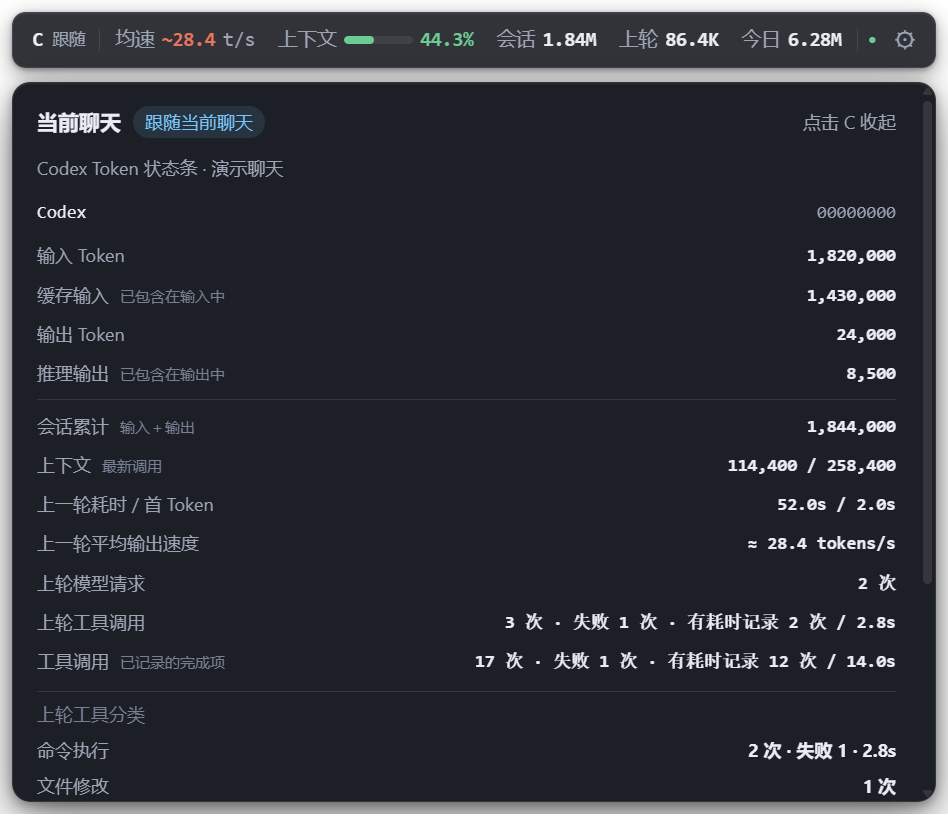
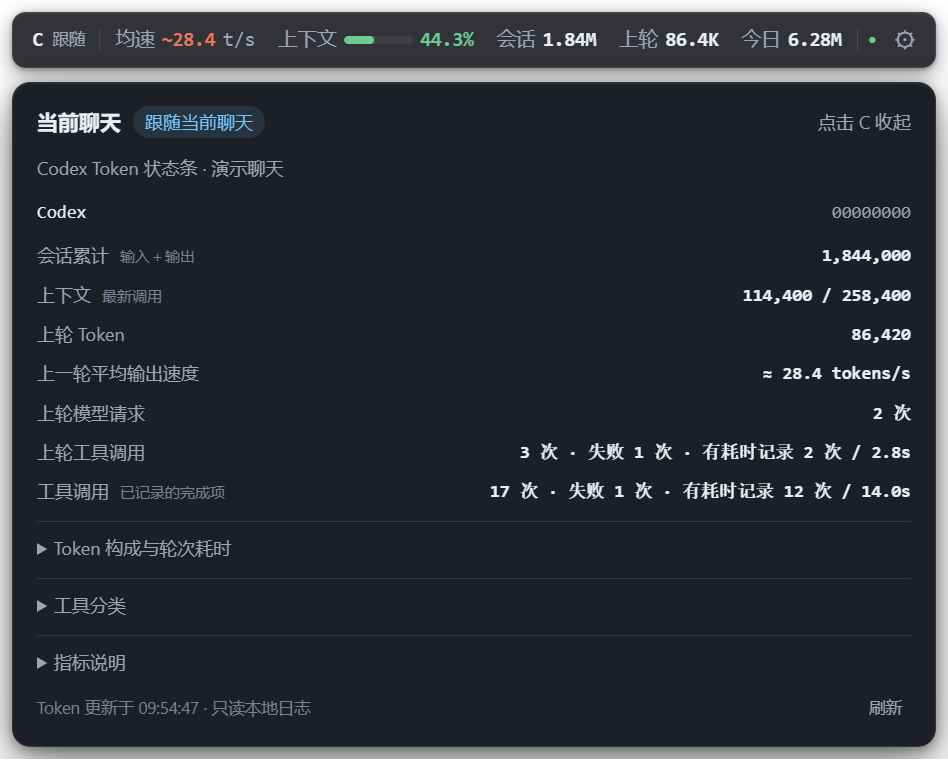
Simplify status details and add settings save recovery

diff --git a/src/ui/settings.html b/src/ui/settings.html
@@ -11,12 +11,15 @@
   <main class="settings-content">
     <h1>Codex Token 状态条</h1>
     <p class="intro">跟随当前聊天，查看 Token 和上下文。鼠标进入浮条时自动半透明，点击 C 展开或收起明细。</p>
+    <header class="settings-navigation">
     <nav class="settings-tabs" role="tablist" aria-label="设置分类">
       <button id="tab-display" role="tab" aria-controls="pane-display" aria-selected="true" data-tab="display">显示</button>
       <button id="tab-chat" role="tab" aria-controls="pane-chat" aria-selected="false" tabindex="-1" data-tab="chat">聊天</button>
       <button id="tab-tools" role="tab" aria-controls="pane-tools" aria-selected="false" tabindex="-1" data-tab="tools">工具</button>
       <button id="tab-diagnostics" role="tab" aria-controls="pane-diagnostics" aria-selected="false" tabindex="-1" data-tab="diagnostics">诊断</button>
     </nav>
+    <div class="save-feedback" id="save-feedback" data-state="idle" role="status" aria-live="polite" aria-atomic="true"><span id="save-status">更改会自动保存</span><button type="button" class="action-button" id="retry-save" hidden>重试保存</button></div>
+    </header>
     <div id="pane-display" role="tabpanel" aria-labelledby="tab-display" data-pane="display">
     <section class="settings-group">
       <h2>浮条显示项</h2>
@@ -34,19 +37,24 @@
       <p class="settings-note">隐藏指标名称和跟随状态，保留数值、进度条及 C、设置按钮；明细仍显示完整文字。</p>
     </section>
     <section class="settings-group">
-      <h2>位置与外观</h2>
-      <div class="setting-row"><label for="placement">跟随窗口的位置</label><select id="placement" data-setting="placement"><option value="top-right">右上方</option><option value="bottom-right">右下方</option><option value="bottom-center">底部居中</option></select></div>
+      <h2>外观</h2>
       <div class="setting-row"><label for="theme">主题</label><select id="theme" data-setting="theme"><option value="system">跟随 Windows</option><option value="dark">深色</option><option value="light">浅色</option></select></div>
       <div class="setting-row"><label for="scale">缩放</label><select id="scale" data-setting="scale"><option value="0.75">75%</option><option value="0.85">85%</option><option value="1">100%</option><option value="1.15">115%</option><option value="1.3">130%</option><option value="1.5">150%</option></select></div>
       <div class="setting-row"><label for="opacity">浮条不透明度</label><div class="opacity-control"><input id="opacity" type="range" min="20" max="100" step="5" value="100" data-setting="opacity" aria-describedby="opacity-note" aria-valuetext="100%"><output id="opacity-value" for="opacity">100%</output></div></div>
       <p class="settings-note" id="opacity-note">数值越低越透明，拖动预览、松开保存。仅影响浮条，明细与设置保持清晰；鼠标进入时继续半透明避让。</p>
+    </section>
+    <section class="settings-group">
+      <h2>位置与拖动</h2>
+      <div class="setting-row"><label for="placement">跟随窗口的位置</label><select id="placement" data-setting="placement"><option value="top-right">右上方</option><option value="bottom-right">右下方</option><option value="bottom-center">底部居中</option></select></div>
       <label class="drag-option"><input type="checkbox" data-setting="allowDrag">允许自由拖动浮条</label>
-      <p class="settings-note">开启后拖动浮条的指标或空白处，松开鼠标自动保存位置。C 和设置按钮仍可点击。</p>
+      <p class="settings-note">拖动指标或空白处移动，松开保存；C 和设置按钮仍可点击。</p>
       <label><input type="checkbox" data-setting="rememberDisplayPositions">按显示器记住浮条位置</label>
-      <p class="settings-note">分别保存 Codex 所在显示器的位置，也支持拖到另一显示器。拔掉显示器后回到可用屏幕；“恢复浮条位置”会清除所有位置记忆。</p>
+      <label class="drag-option"><input type="checkbox" data-setting="alwaysVisible">切换到其他应用时仍显示</label>
+      <details class="advanced-settings" id="advanced-position"><summary>高级位置设置</summary>
       <div class="setting-row"><label for="offsetX">水平偏移</label><input id="offsetX" type="number" min="-20000" max="20000" step="10" data-setting="offsetX"></div>
       <div class="setting-row"><label for="offsetY">垂直偏移</label><input id="offsetY" type="number" min="-20000" max="20000" step="10" data-setting="offsetY"></div>
-      <label><input type="checkbox" data-setting="alwaysVisible">切换到其他应用时仍显示</label>
+      <p class="settings-note">位置按 Codex 所在显示器分别保存，支持跨屏拖动。拔掉目标显示器后回到可用屏幕；“恢复浮条位置”清除所有位置记忆。</p>
+      </details>
     </section>
     <details class="settings-group"><summary>统计口径说明</summary><p class="settings-note">上一轮输出 Token ÷（轮次耗时－首 Token 延迟）。缺少首 Token 时间时按完整耗时计算。包含推理输出、工具执行和多次模型调用，因此显示的是轮次平均速度。</p><p class="settings-note">缓存输入和推理输出不会重复计入总量。Token 用量不等同于套餐额度或账单。</p></details>
     </div>
@@ -65,20 +73,18 @@
     <section class="settings-group" aria-labelledby="tool-details-heading">
       <h2 id="tool-details-heading">工具调用明细</h2>
       <p class="settings-note tool-chat" id="tool-chat">等待聊天数据</p>
-      <details id="tool-details">
-        <summary id="tool-details-summary">查看分类与调用记录</summary>
+      <div id="tool-details">
         <div class="tool-controls">
           <label for="tool-scope">统计范围</label>
           <select id="tool-scope"><option value="session">会话累计</option><option value="turn" id="tool-turn-option">上一轮</option></select>
         </div>
         <p class="settings-note" id="tool-stats"></p>
-        <div class="tool-table-wrap">
+        <details class="advanced-settings" id="tool-classification"><summary>按类别查看汇总</summary><div class="tool-table-wrap">
           <table class="tool-table" aria-label="工具调用分类统计">
             <thead><tr><th scope="col">分类</th><th scope="col">次数</th><th scope="col">失败</th><th scope="col">计时</th><th scope="col">耗时</th></tr></thead>
             <tbody id="settings-tool-groups"></tbody>
           </table>
-        </div>
-        <p class="settings-note">计时表示有耗时记录的次数；耗时只合计日志提供的值。</p>
+        </div><p class="settings-note">计时表示有耗时记录的次数；耗时只合计日志提供的值。汇总包含全部调用，不受记录筛选影响。</p></details>
         <div class="tool-filters"><label>类别<select id="tool-category"><option value="all">全部类别</option><option value="CommandExecution">命令执行</option><option value="FileChange">文件修改</option><option value="Extension">扩展操作</option><option value="ImageView">图像查看</option></select></label><label>排序<select id="tool-sort"><option value="newest">最近完成</option><option value="duration">耗时从长到短</option></select></label></div>
         <label class="search-label" for="tool-search">搜索工具</label><input type="search" class="full-select" id="tool-search" placeholder="工具名称或类别" autocomplete="off">
         <h3 class="running-heading" id="running-heading" hidden>执行中</h3><ol class="tool-records" id="settings-running-tools" aria-label="执行中的工具调用"></ol>
@@ -87,7 +93,7 @@
         <ol class="tool-records" id="settings-tool-records" aria-label="最近已完成的工具调用"></ol>
         <p class="settings-note" id="tool-empty"></p>
         <div class="pager"><button class="action-button" id="tool-prev" aria-label="上一页调用记录">上一页</button><span id="tool-page" aria-live="polite"></span><button class="action-button" id="tool-next" aria-label="下一页调用记录">下一页</button></div>
-      </details>
+      </div>
     </section>
     </div>
     <div id="pane-diagnostics" role="tabpanel" aria-labelledby="tab-diagnostics" data-pane="diagnostics" hidden>
@@ -116,7 +122,6 @@
       <p class="settings-note">复制内容不包含聊天标题、ID、用户路径或调用正文。仅主动检查更新时访问 GitHub。</p>
     </section>
     </div>
-    <p id="save-status" aria-live="polite"></p>
     <div class="actions"><button class="action-button" id="refresh">重新检测与刷新</button><button class="action-button" id="restore-position">恢复浮条位置</button><button class="action-button" id="reset">恢复默认显示</button><button class="action-button" id="quit">退出状态条</button></div>
     <p class="settings-note" id="reset-message" aria-live="polite"></p><button class="action-button" id="undo-reset" hidden>撤销恢复默认显示</button>
   </main>

diff --git a/src/ui/styles.css b/src/ui/styles.css
@@ -56,12 +56,19 @@ button:focus-visible { outline: 2px solid var(--color-brand); outline-offset: 2p
 .activity.busy { color: #57c7ff; animation: zupulse 1.6s ease-in-out infinite; }
 .activity.done { color: #3ecf8e; }
 .details.panel { position: relative; width: 100%; min-width: 0; max-width: none; max-height: 480px; padding: 15px 16px; font-size: 12px; font-family: 'Segoe UI', 'Microsoft YaHei UI', sans-serif; backdrop-filter: none; left: auto; bottom: auto; gap: 10px; }
+.detail-extra { border-top: 1px solid var(--color-border); padding-top: 8px; }
+.detail-extra summary, .advanced-settings summary { cursor: pointer; color: var(--color-foreground-subtle); }
+.detail-extra summary:focus-visible, .advanced-settings summary:focus-visible { outline: 2px solid var(--color-brand); outline-offset: 3px; }
+.detail-extra[open] > summary { margin-bottom: 10px; }
+.detail-extra .tool-breakdown + .tool-breakdown { margin-top: 10px; }
 .detail-heading, .detail-heading > div { display: flex; align-items: center; gap: 8px; }
 .detail-heading { justify-content: space-between; }
 .detail-heading strong { font-size: 14px; }
 .chat-title { margin: 0; color: var(--color-foreground-subtle); line-height: 1.6; overflow-wrap: anywhere; }
 .chat-title[hidden] { display: none; }
 .model-line { display: flex; justify-content: space-between; gap: 12px; font-family: Consolas, monospace; font-size: 12px; }
+.model-line > span { min-width: 0; overflow-wrap: anywhere; }
+.model-line > span:last-child { flex-shrink: 0; }
 .numbers { display: grid; gap: 7px; }
 .numbers > div { display: grid; grid-template-columns: minmax(110px, 1fr) minmax(0, 2fr); gap: 12px; align-items: start; }
 .numbers > div > span { color: var(--color-foreground-subtle); min-width: 0; }
@@ -86,10 +93,19 @@ body.settings-page { overflow: visible; min-height: 100vh; background: var(--col
 .settings-group { background: var(--color-card); border: 1px solid var(--color-border); border-radius: 11px; padding: 16px; margin: 0 0 14px; }
 .settings-group h2 { margin: 0 0 13px; font-size: 14px; }
 [hidden] { display: none !important; }
-.settings-tabs { display: grid; grid-template-columns: repeat(4, minmax(0, 1fr)); gap: 5px; position: sticky; top: 0; z-index: 2; background: var(--color-background); padding: 8px 0 12px; margin-bottom: 8px; }
+.settings-navigation { position: sticky; top: 0; z-index: 2; background: var(--color-background); padding-bottom: 8px; margin-bottom: 12px; }
+.settings-tabs { display: grid; grid-template-columns: repeat(4, minmax(0, 1fr)); gap: 5px; padding: 8px 0; }
 .settings-tabs button { cursor: pointer; border-radius: 7px; padding: 9px 4px; border: 1px solid var(--color-border); }
 .settings-tabs button[aria-selected=true] { color: var(--color-brand); background: var(--color-hover); border-color: var(--color-brand); }
-.settings-group, #tool-details-heading { scroll-margin-top: 76px; }
+.settings-group, #tool-details-heading { scroll-margin-top: 118px; }
+.advanced-settings { border-top: 1px solid var(--color-border); padding-top: 12px; margin-top: 16px; }
+.save-feedback { display: flex; align-items: center; gap: 10px; min-height: 28px; font-size: 12px; color: var(--color-foreground-subtle); }
+#save-status { margin: 0; flex: 1; min-width: 0; overflow-wrap: anywhere; }
+.save-feedback[data-state=saving] { color: var(--color-brand); }
+.save-feedback[data-state=saved] { color: #3ecf8e; }
+.light .save-feedback[data-state=saved] { color: #0f8257; }
+.save-feedback[data-state=error] { color: #ff6b57; }
+.save-feedback .action-button { flex-shrink: 0; padding: 4px 8px; }
 input[type=search] { border: 1px solid var(--color-border); color: var(--color-foreground); background: var(--color-background); border-radius: 6px; padding: 8px; font: inherit; }
 .search-label { margin: 12px 0 6px; font-size: 12px; color: var(--color-foreground-subtle); }
 .pager { display: flex; align-items: center; justify-content: space-between; gap: 8px; margin: 12px 0; font-size: 12px; }
@@ -121,7 +137,6 @@ input[type=number] { width: 112px; }
 .status-line { color: var(--color-foreground-subtle); font-size: 12px; margin-bottom: 12px; }
 .tool-details-link { display: inline-block; margin-top: 12px; color: var(--color-brand); font-size: 12px; }
 .tool-chat { margin: 0 0 10px; overflow-wrap: anywhere; }
-#tool-details summary { cursor: pointer; color: var(--color-brand); }
 .tool-controls { display: flex; align-items: center; gap: 12px; margin-top: 12px; }
 .tool-table-wrap { overflow-x: auto; margin-top: 12px; }
 .tool-table { border-collapse: collapse; width: 100%; font-size: 12px; font-variant-numeric: tabular-nums; }
@@ -147,7 +162,6 @@ input[type=number] { width: 112px; }
   .diagnostic-rows > div { grid-template-columns: 112px minmax(0, 1fr); gap: 12px; }
   .actions { display: grid; grid-template-columns: repeat(2, minmax(0, 1fr)); }
 }
-#save-status { color: #ff6b57; font-size: 12px; min-height: 18px; }
 @media (prefers-reduced-motion: reduce) { .activity.busy { animation: none; } }
 .shell.compact .statusbar .k, .shell.compact .statusbar .route { display: none; }
 .shell.hide-labels .statusbar .k, .shell.hide-labels .statusbar .route { display: none; }
@@ -156,3 +170,6 @@ input[type=number] { width: 112px; }
 .shell.compact .numbers small { display: none; }
 .shell.compact .numbers > div, .shell.compact .tool-breakdown div, .shell.compact .overflow-list > div { grid-template-columns: minmax(0, 1fr); gap: 2px; }
 .shell.compact .numbers strong, .shell.compact .tool-breakdown strong, .shell.compact .overflow-list strong { text-align: left; }
+.shell.compact .detail-heading, .shell.compact .detail-heading > div { flex-wrap: wrap; }
+.shell.compact .detail-heading strong, .shell.compact .detail-heading .pver { white-space: nowrap; }
+.shell.compact .detail-heading > .dim { display: none; }

diff --git a/src/ui/index.html b/src/ui/index.html
@@ -11,7 +11,7 @@
 <body>
   <main class="shell" id="shell">
     <div class="zusage-root statusbar" id="bar">
-      <button class="identity btn" data-action="details" aria-label="展开或收起明细" aria-expanded="false"><span class="brand-mark">C</span><span class="route" id="route">连接中</span></button>
+      <button class="identity btn" data-action="details" aria-label="展开或收起明细" aria-expanded="false"><span class="brand-mark">C</span><span class="route" id="route">连接中</span><span class="more-count" id="more-count" hidden></span></button>
       <span class="sep"></span>
       <div class="zu-main" id="metrics">
         <div class="it metric" data-metric="speed"><span class="k">均速</span><span class="v ok" id="speed">—</span><span class="dim">t/s</span></div>
@@ -22,7 +22,6 @@
         <div class="it metric" data-metric="cache"><span class="k">缓存</span><span class="v" id="cache">—</span></div>
         <div class="it metric" data-metric="tools"><span class="k">工具</span><span class="v" id="tools">—</span><span class="tool-failed" id="tool-failed"></span></div>
       </div>
-      <span class="more-count" id="more-count" hidden aria-label="其余指标请点击 C 查看明细"></span>
       <span class="sep"></span>
       <span class="activity" id="activity" aria-label="当前聊天活动状态">●</span>
       <button class="btn zu-gear" data-action="settings" aria-label="设置">⚙</button>
@@ -32,22 +31,24 @@
       <p class="chat-title" id="chat-title" hidden></p>
       <div class="model-line"><span id="model">—</span><span class="dim" id="thread">—</span></div>
       <div class="numbers">
-        <div><span>输入 Token</span><strong id="input-detail">—</strong></div>
-        <div><span>缓存输入 <small>已包含在输入中</small></span><strong id="cached-detail">—</strong></div>
-        <div><span>输出 Token</span><strong id="output-detail">—</strong></div>
-        <div><span>推理输出 <small>已包含在输出中</small></span><strong id="reasoning-detail">—</strong></div>
-        <div class="total-row"><span>会话累计 <small>输入＋输出</small></span><strong id="total-detail">—</strong></div>
+        <div><span>会话累计 <small>输入＋输出</small></span><strong id="total-detail">—</strong></div>
         <div><span>上下文 <small id="context-origin">最新调用</small></span><strong id="context-detail">—</strong></div>
-        <div><span>上一轮耗时 / 首 Token</span><strong id="time-detail">—</strong></div>
+        <div><span id="turn-total-label">上轮 Token</span><strong id="turn-total-detail">—</strong></div>
         <div><span>上一轮平均输出速度</span><strong id="speed-detail">—</strong></div>
         <div><span id="turn-requests-label">上轮模型请求</span><strong id="turn-requests-detail">—</strong></div>
         <div><span id="turn-tools-label">上轮工具调用</span><strong id="turn-tools-detail">—</strong></div>
         <div><span>工具调用 <small>已记录的完成项</small></span><strong id="tools-detail">—</strong></div>
       </div>
-      <div class="tool-breakdown" id="turn-tool-breakdown"></div>
-      <div class="tool-breakdown" id="tool-breakdown"></div>
       <div class="overflow-list" id="overflow-list" hidden></div>
-      <p class="speed-note" id="speed-note">平均速度包含工具执行和多次模型调用，不能代表纯生成速度。</p>
+      <details class="detail-extra" id="detail-tokens"><summary>Token 构成与轮次耗时</summary><div class="numbers">
+        <div><span>输入 Token</span><strong id="input-detail">—</strong></div>
+        <div><span>缓存输入 <small>已包含在输入中</small></span><strong id="cached-detail">—</strong></div>
+        <div><span>输出 Token</span><strong id="output-detail">—</strong></div>
+        <div><span>推理输出 <small>已包含在输出中</small></span><strong id="reasoning-detail">—</strong></div>
+        <div><span>上一轮耗时 / 首 Token</span><strong id="time-detail">—</strong></div>
+      </div></details>
+      <details class="detail-extra" id="detail-tools"><summary>工具分类</summary><div class="tool-breakdown" id="turn-tool-breakdown"></div><div class="tool-breakdown" id="tool-breakdown"></div></details>
+      <details class="detail-extra" id="detail-explanation"><summary>指标说明</summary><p class="speed-note" id="speed-note">平均速度包含工具执行和多次模型调用，不能代表纯生成速度。</p></details>
       <p class="state-note" id="state-note"></p>
       <div class="detail-footer"><span id="updated">只读本地日志</span><button class="btn" data-action="refresh">刷新</button></div>
     </section>

diff --git a/src/ui/settings.js b/src/ui/settings.js
@@ -2,6 +2,7 @@
 const api = window.codexStatusbar;
 const $ = id => document.getElementById(id);
 let current, pane = 'display', chatPage = 0, chatContext = '', lastChatRender = '', resetPatch = null;
+let saveGeneration = 0, saveTimer = null, failedSave = null;
 const labels = { following: '跟随当前聊天', recent: '当前聊天未绑定，显示最近活跃聊天', pinned: '已锁定聊天', ambiguous: '多个窗口或同名聊天，请选择聊天', empty: '当前页面暂无本地聊天数据', unbound: '等待首次聊天记录' };
 function showPane(name) {
   if (!['display', 'chat', 'tools', 'diagnostics'].includes(name)) return;
@@ -9,7 +10,6 @@ function showPane(name) {
   for (const button of document.querySelectorAll('[data-tab]')) { const selected = button.dataset.tab === name; button.setAttribute('aria-selected', String(selected)); button.tabIndex = selected ? 0 : -1; }
   for (const panel of document.querySelectorAll('[data-pane]')) panel.hidden = panel.dataset.pane !== name;
   api.toolInterest(name === 'tools');
-  if (name === 'tools') $('tool-details').open = true;
   window.scrollTo(0, 0);
 }
 for (const tab of document.querySelectorAll('[data-tab]')) {
@@ -75,10 +75,27 @@ api.onSnapshot(state => {
   $('diag-advice').textContent = state.health.readErrors ? '部分目录或日志暂不可读，已保留可用缓存；统计可能不完整，程序会自动重试。' : state.selection.reason === 'duplicate-title' ? '同名聊天缺少近期页面确认，请在“聊天”中锁定目标，或重新进入目标聊天。' : !state.selection.connected ? 'IPC 连接正在重试；页面路径和标题识别仍可独立工作。' : state.selection.mode === 'ambiguous' ? '多个窗口或同名聊天无法唯一识别，请在“聊天”中锁定目标。' : (!runtime.watcherHealthy || runtime.watcherError) && !runtime.testMode ? '窗口跟随助手会自动重启；“始终显示”可暂时保持浮条可见。' : !runtime.overlayVisible && !state.settings.alwaysVisible && !runtime.codexForeground ? '切回 Codex 后浮条会自动显示。' : '运行状态正常；空闲聊天的 Token 更新时间可以早于当前时间。';
   if (indexError && !state.health.readErrors) $('diag-advice').textContent = '聊天标题索引读取受限，已保留可用标题；已确认聊天可继续显示，新切换聊天需页面 ID 确认，也可手动锁定。程序会自动重试。';
 });
-async function save(patch) {
-  try { await api.setSettings(patch); $('save-status').textContent = ''; return true; }
-  catch (error) { $('save-status').textContent = error.message || '设置未能保存，请稍后重试。'; return false; }
+async function saveAction(action) {
+  const generation = ++saveGeneration;
+  clearTimeout(saveTimer); failedSave = null; $('retry-save').hidden = true;
+  $('save-feedback').dataset.state = 'saving'; $('save-status').textContent = '正在保存…';
+  try {
+    await action();
+    if (generation === saveGeneration) {
+      $('save-feedback').dataset.state = 'saved'; $('save-status').textContent = '已保存';
+      saveTimer = setTimeout(() => { $('save-feedback').dataset.state = 'idle'; $('save-status').textContent = '更改会自动保存'; }, 2500);
+    }
+    return true;
+  } catch (error) {
+    if (generation === saveGeneration) {
+      failedSave = action; $('retry-save').hidden = false;
+      $('save-feedback').dataset.state = 'error'; $('save-status').textContent = error.message || '设置未能保存，请重试。';
+    }
+    return false;
+  }
 }
+const save = patch => saveAction(() => api.setSettings(patch));
+$('retry-save').addEventListener('click', () => { if (failedSave) void saveAction(failedSave); });
 function opacityLabel() {
   const value = `${$('opacity').value}%`;
   $('opacity-value').textContent = value;
@@ -107,7 +124,7 @@ $('chat-prev').addEventListener('click', () => { chatPage--; renderChats(); });
 $('chat-next').addEventListener('click', () => { chatPage++; renderChats(); });
 $('open-tool-details').addEventListener('click', event => { event.preventDefault(); showPane('tools'); });
 $('refresh').addEventListener('click', () => api.refresh());
-$('restore-position').addEventListener('click', () => api.restorePosition());
+$('restore-position').addEventListener('click', () => { void saveAction(() => api.restorePosition()); });
 $('quit').addEventListener('click', () => api.quit());
 $('reset').addEventListener('click', async () => {
   if (!current) return;

diff --git a/src/ui/renderer.js b/src/ui/renderer.js
@@ -9,6 +9,7 @@ let availableWidth = null;
 let availableHeight = null;
 let lastResize = '';
 let opacityPreview = null;
+let detailContext = null;
 function applyOpacity() {
   const value = opacityPreview ?? snapshot?.settings.opacity ?? 1;
   $('bar').style.setProperty('--bar-opacity', String(value));
@@ -58,17 +59,21 @@ function fitMetrics() {
   more.hidden = true;
   const omitted = [];
   while ($('bar').scrollWidth > $('bar').clientWidth + 1 || metrics.scrollWidth > metrics.clientWidth + 1 || $('bar').offsetWidth > limit + 1) {
-    const node = enabled.at(enabled.length - omitted.length - 1);
+    const node = enabled[enabled.length - omitted.length - 1];
     if (!node) break;
     node.classList.add('overflowed');
     omitted.unshift(node);
     more.hidden = false;
     more.textContent = `+${omitted.length}`;
   }
+  more.setAttribute('aria-label', `${omitted.length} 个指标已收起，请点击 C 查看明细`);
+  document.querySelector('[data-action=details]').setAttribute('aria-label', detailsOpen ? '收起用量明细' : `展开用量明细${omitted.length ? `，含 ${omitted.length} 个收起指标` : ''}`);
   const list = $('overflow-list');
   list.replaceChildren();
   const metricValues = { speed: `${$('speed').textContent} t/s`, context: $('context').textContent, session: $('session').textContent, turn: $('turn').textContent, today: $('today').textContent, cache: $('cache').textContent, tools: `${$('tools').textContent}${$('tool-failed').textContent ? ` · ${$('tool-failed').textContent}` : ''}` };
   for (const node of omitted) {
+    // Other omitted metrics already appear in the main detail summary.
+    if (!['today', 'cache'].includes(node.dataset.metric)) continue;
     const row = document.createElement('div');
     const label = document.createElement('span');
     const value = document.createElement('strong');
@@ -77,7 +82,7 @@ function fitMetrics() {
     row.append(label, value);
     list.append(row);
   }
-  list.hidden = omitted.length === 0;
+  list.hidden = list.children.length === 0;
   $('shell').style.width = detailsOpen ? `${Math.min(limit + 16, Math.max(520, $('bar').offsetWidth + 16))}px` : '';
   $('shell').style.alignItems = detailsOpen ? 'flex-end' : '';
 }
@@ -100,6 +105,10 @@ function detailVisibility(open) {
 }
 
 function render(state) {
+  if (detailContext !== state.selection.threadId) {
+    for (const item of document.querySelectorAll('.detail-extra')) item.open = false;
+    detailContext = state.selection.threadId;
+  }
   snapshot = state;
   const s = state.session;
   const settings = state.settings;
@@ -136,6 +145,7 @@ function render(state) {
   $('tools-detail').textContent = tools ? `${number(tools.total)} 次 · 失败 ${number(tools.failed)} 次 · 有耗时记录 ${number(tools.timed)} 次 / ${time(tools.durationMs)}` : '—';
   renderToolGroups($('tool-breakdown'), tools?.byType, '会话工具分类');
   const turnTools = s?.turnToolUsage;
+  $('detail-tools').hidden = !(tools?.byType?.length || turnTools?.byType?.length);
   $('turn-requests-label').textContent = s?.active ? '本轮模型请求' : '上轮模型请求';
   $('turn-tools-label').textContent = s?.active ? '本轮工具调用' : '上轮工具调用';
   $('turn-requests-detail').textContent = Number.isFinite(s?.turnRequests) ? `${number(s.turnRequests)} 次` : '—';
@@ -152,6 +162,8 @@ function render(state) {
     $(id).textContent = s?.hasUsage ? number(s.totals[field]) : '—';
   }
   $('context-detail').textContent = `${number(s?.context.used)} / ${number(s?.context.capacity)}`;
+  $('turn-total-label').textContent = s?.active ? '本轮 Token' : '上轮 Token';
+  $('turn-total-detail').textContent = number(s?.turnTokens?.total_tokens);
   $('context-origin').textContent = s?.context.overridden ? '手动窗口容量' : '最新调用';
   $('time-detail').textContent = `${time(s?.lastTurn?.durationMs)} / ${time(s?.lastTurn?.firstTokenMs)}`;
   $('speed-detail').textContent = Number.isFinite(speed) ? `≈ ${speed.toFixed(1)} tokens/s` : '—';

diff --git a/src/ui/tool-details.js b/src/ui/tool-details.js
@@ -46,7 +46,6 @@
     text($('tool-chat'), [modes[state.selection.mode], state.selection.title ?? session?.model].filter(Boolean).join(' · '));
     text($('tool-turn-option'), session?.active ? '本轮' : '上一轮');
     const summary = stats ? `${count(stats.total)} 次 · 失败 ${count(stats.failed)} 次` : '暂无调用数据';
-    text($('tool-details-summary'), `查看分类与调用记录 · ${summary}`);
     text($('tool-stats'), stats ? `${turn ? session.active ? '本轮' : '上一轮' : '会话累计'} ${summary} · 有耗时记录 ${count(stats.timed)} 次 / ${duration(stats.durationMs)}` : '当前范围暂无已完成的工具调用。');
     const groups = $('settings-tool-groups'), groupSignature = JSON.stringify(stats?.byType);
     if (groups.dataset.signature !== groupSignature) {
@@ -62,7 +61,7 @@
     const visible = [...all].reverse().filter(record => matches(record) && (!failed || record.status === 'failed'));
     if ($('tool-sort').value === 'duration') visible.sort((a, b) => (b.durationMs ?? -1) - (a.durationMs ?? -1));
     const pages = Math.max(1, Math.ceil(visible.length / PAGE_SIZE)); page = Math.min(page, pages - 1);
-    text($('tool-record-note'), `仅筛选最近 ${all.length} / ${count(stats?.total ?? 0)} 条完成记录（最多保留 200 条），汇总包含全部调用。`);
+    text($('tool-record-note'), `最近 ${all.length} 条 / 累计 ${count(stats?.total ?? 0)} 次；筛选仅作用于最近记录（最多 200 条）。`);
     records($('settings-tool-records'), visible.slice(page * PAGE_SIZE, (page + 1) * PAGE_SIZE));
     const pending = failed ? [] : running.filter(matches);
     $('running-heading').hidden = !pending.length;

diff --git a/README.md b/README.md
@@ -1,4 +1,4 @@
-# Codex Token 状态条 V1.5（Windows）
+# Codex Token 状态条 V1.6（Windows）
 
 为 Codex 桌面版提供一个跟随窗口的独立浮条。基于
 [zcode-token-usage-statusbar](https://github.com/xhwxt/zcode-token-usage-statusbar)
@@ -15,7 +15,7 @@
 
 ## 开始使用
 
-从 [GitHub Releases](https://github.com/3ALLBUY14/codex-token-statusbar/releases/latest) 下载 `CodexTokenStatusbar-V1.5-Windows-x64.zip`。
+从 [GitHub Releases](https://github.com/3ALLBUY14/codex-token-statusbar/releases/latest) 下载 `CodexTokenStatusbar-V1.6-Windows-x64.zip`。
 
 安装版：解压整个压缩包，双击 **`安装.cmd`**，选择是否开机启动和创建桌面入口，再点击“安装并启动”。安装到当前用户目录，无需管理员权限。可在 Windows“设置 → 应用”中卸载。
 
@@ -30,9 +30,10 @@
 6. 设置中的“隐藏浮条文字”可隐藏指标名称和跟随状态，保留数值、进度条及操作按钮；明细文字仍完整显示。
 7. 浮条找不到时，重新启动桌面入口，并在设置或托盘菜单中点击“恢复浮条位置”。
 8. 设置页的“运行诊断”显示聊天连接、窗口跟随、浮条可见性和日志读取状态，便于定位升级后浮条不出现的问题。
-9. 窄窗口或高缩放下，浮条用 `+N` 表示收纳的指标；点击 C 可在明细中查看全部收纳项。窗口跟随助手每两秒报告一次状态，设置页显示最后响应时间，超时后自动重启。
+9. 窄窗口或高缩放下，收起的指标数量显示在 C 按钮中，如 `C +3`；点击整个 C 按钮查看明细。累计、上下文、轮次、速度和工具次数在摘要中展示，今日与缓存等额外指标按需补充，避免重复列出。窗口跟随助手每两秒报告一次状态，设置页显示最后响应时间，超时后自动重启。
 10. 默认按 Codex 所在显示器分别记住位置，支持把浮条拖到另一显示器；目标屏幕断开后回到可用屏幕。可以关闭位置记忆；“恢复浮条位置”清除全部显示器位置记忆。
-11. 设置 → 显示 → 位置与外观中可调整“浮条不透明度”（20%–100%）。拖动实时预览、松开保存；Esc 取消未提交预览，关闭或重新加载设置也会取消预览。仅影响浮条，明细和设置保持清晰；鼠标进入浮条时最多显示为 45% 不透明度，较低值保持原样。恢复默认显示会恢复到 100%，可撤销。
+11. 设置 → 显示 → 外观中可调整“浮条不透明度”（20%–100%）。拖动实时预览、松开保存；Esc 取消未提交预览，关闭或重新加载设置也会取消预览。仅影响浮条，明细和设置保持清晰；鼠标进入浮条时最多显示为 45% 不透明度，较低值保持原样。恢复默认显示会恢复到 100%，可撤销。
+12. 设置页签下方显示“正在保存 / 已保存”；保存失败时保留原因并可点击“重试保存”。恢复位置也有同样的反馈。显示页分为外观与位置，数值偏移位于“高级位置设置”。
 
 安装时可以选择登录 Windows 自动启动，也可重新安装取消该选项。更新安装版会保留显示偏好和快捷方式选项；安装器先校验暂存副本，再替换旧版，安装失败时恢复旧版。旧便携版需要先从托盘退出。偏好设置保存在
 `%APPDATA%\CodexTokenStatusbar\settings.json`，需要彻底清除时可自行删除该目录。
@@ -51,9 +52,13 @@
 
 点击 C 的明细还显示本轮或上一轮的模型请求数，以及该轮工具调用次数、失败数、可用耗时和按类别分组。会话工具累计与轮次工具统计分别展示。
 
+明细默认展示摘要；“Token 构成与轮次耗时”“工具分类”和“指标说明”可分别点击展开。刷新数据会保留已展开的二级内容，切换聊天后恢复折叠；外层明细始终由 C 控制开合。
+
 设置分为 **显示 / 聊天 / 工具 / 诊断** 四栏，支持键盘左右方向键切换。聊天栏可按标题、模型或 ID 搜索全部已发现的根聊天，每页 20 项；锁定项始终保留在选择器中。“恢复默认显示”保留聊天锁定、上下文容量、位置与拖动设置，并提供撤销。
 
 设置 → **工具** 可切换会话累计与本轮/上一轮，查看分类汇总及最近 200 条已完成调用的类别、完成时间、状态、退出码和已记录耗时，每页 20 条。支持工具名称搜索、类别筛选、只看失败、按耗时排序，以及执行中状态。具体工具名和开始状态仅在本地日志提供相应元数据时显示。隐藏浮条文字或关闭工具指标时，设置明细仍可查看。记录不包含命令参数、文件内容或工具输出；缺失耗时显示“未记录”，历史汇总不受记录条数限制。
+
+工具页直接展示搜索、筛选和记录；分类表位于“按类别查看汇总”，需要时展开，不再折叠整个记录区域。
 
 诊断栏可一键复制不含聊天标题、ID、用户路径和调用正文的状态摘要，并主动检查 GitHub 最新发布或打开下载页。
 

diff --git a/CHANGELOG.md b/CHANGELOG.md
@@ -1,5 +1,13 @@
 # 更新记录
 
+## V1.6 — 2026-10-15
+
+- 设置页固定显示保存状态，失败保留原因并支持重试；恢复浮条位置同样支持错误反馈与重试。
+- 外观与位置分组，数值偏移收进高级设置；工具页直接展示筛选和调用记录，分类汇总按需展开。
+- 明细默认显示累计、上下文和轮次摘要，Token 构成、工具分类及说明分别展开，保留所有原有数据。
+- 收起数量并入 C 按钮（如 C +3），点击仍属于 C 开合操作；额外指标不再与摘要重复列出，窄窗口保留关键读数。
+- 增加保存失败恢复、二级内容可达性、刷新后折叠状态、窄窗口指标及 C 按钮行为检查；动画验证等待实际样式稳定。
+
 ## V1.5 — 2026-10-15
 
 - 设置新增浮条不透明度滑块，支持 20%–100%、百分比显示、实时预览和松开保存。
